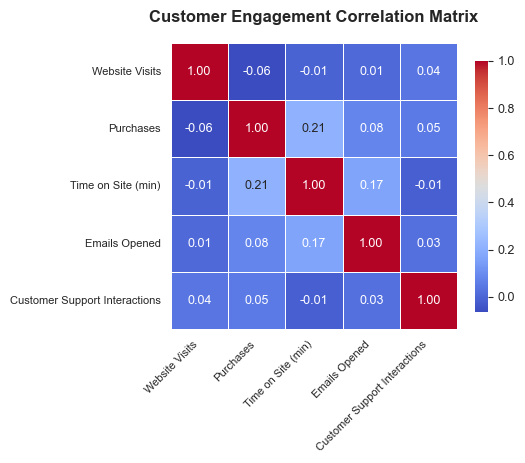
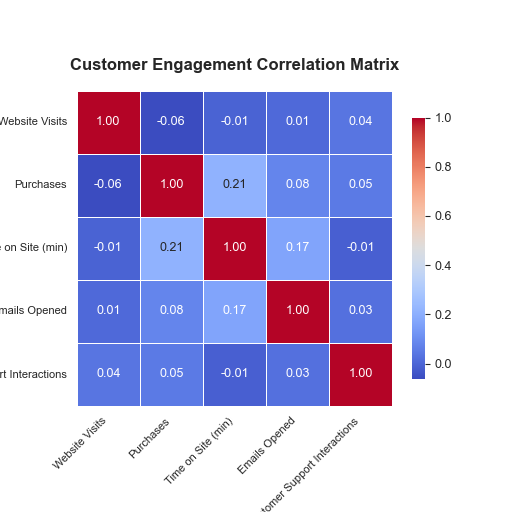
fix

diff --git a/q5/chart.py b/q5/chart.py
@@ -46,10 +46,10 @@ plt.xticks(rotation=45, ha="right", fontsize=8)
 plt.yticks(rotation=0, fontsize=8)
 
 # Adjust layout to prevent cutoff
-plt.subplots_adjust(top=0.9, bottom=0.2, left=0.2, right=0.9)
+plt.subplots_adjust(top=0.88, bottom=0.15, left=0.15, right=0.92)
 
 # Save chart as exactly 512x512 pixels
 plt.savefig(
-    "q5/chart.png", dpi=100, bbox_inches="tight", facecolor="white", edgecolor="none"
+    "q5/chart.png", dpi=100, bbox_inches=None, facecolor="white", edgecolor="none"
 )
 plt.close()
